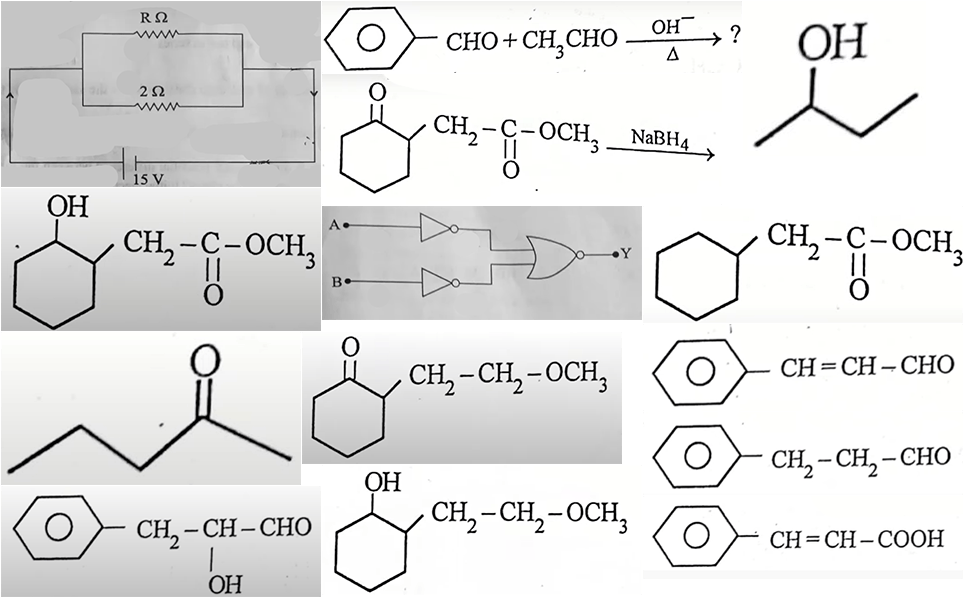
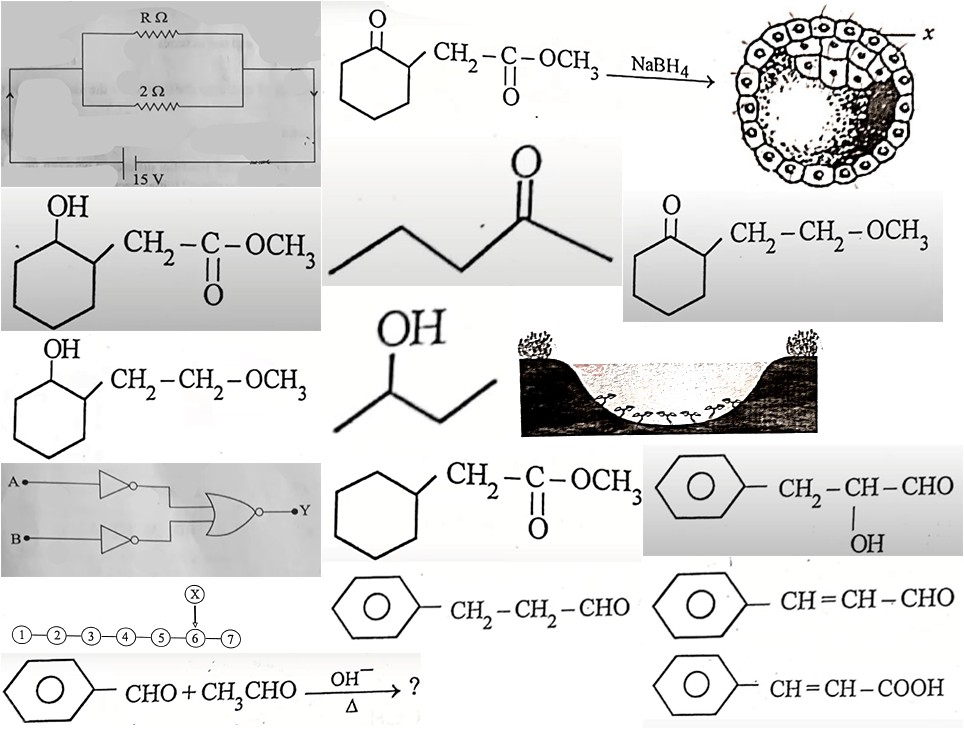
Fixed

diff --git a/img/engg/gujcet/prev/g2022.css b/img/engg/gujcet/prev/g2022.css
@@ -7,47 +7,56 @@ Responsive: <div class="yourspritesname"></div>
 */
 
 
+.gujcet_2022_bg_12 {max-width:320px; max-height:121px; }
+.gujcet_2022_bg_12::after {content: '\00a0';display: inline-block; width:320px; height:121px; background-position: 78.57142857142857% 53.125%;background-size: 301.25% 602.4793388429752%;background-image: url(g2022.png);padding: 0; }
+div.gujcet_2022_bg_12::after {max-width:320px; width:100%;height:0;padding: 0 0 37.8125% 0;}
+.gujcet_2022_bg_24 {max-width:225px; max-height:188px; }
+.gujcet_2022_bg_24::after {content: '\00a0';display: inline-block; width:225px; height:188px; background-position: 97.83491204330176% 0.18484288354898337%;background-size: 428.44444444444446% 387.7659574468085%;background-image: url(g2022.png);padding: 0; }
+div.gujcet_2022_bg_24::after {max-width:225px; width:100%;height:0;padding: 0 0 83.55555555555556% 0;}
+.gujcet_2022_bg_30 {max-width:252px; max-height:74px; }
+.gujcet_2022_bg_30::after {content: '\00a0';display: inline-block; width:252px; height:74px; background-position: 0.1404494382022472% 88.2442748091603%;background-size: 382.53968253968253% 985.1351351351351%;background-image: url(g2022.png);padding: 0; }
+div.gujcet_2022_bg_30::after {max-width:252px; width:100%;height:0;padding: 0 0 29.365079365079364% 0;}
 .gujcet_2022_ch_5 {max-width:400px; max-height:131px; }
-.gujcet_2022_ch_5::after {content: '\00a0';display: inline-block; width:400px; height:131px; background-position: 57.09219858156028% 15.845824411134904%;background-size: 241% 456.48854961832063%;background-image: url(g2022.png);padding: 0; }
+.gujcet_2022_ch_5::after {content: '\00a0';display: inline-block; width:400px; height:131px; background-position: 57.09219858156028% 0.16722408026755853%;background-size: 241% 556.4885496183206%;background-image: url(g2022.png);padding: 0; }
 div.gujcet_2022_ch_5::after {max-width:400px; width:100%;height:0;padding: 0 0 32.75% 0;}
 .gujcet_2022_ch_5_a {max-width:320px; max-height:117px; }
-.gujcet_2022_ch_5_a::after {content: '\00a0';display: inline-block; width:320px; height:117px; background-position: 99.84472049689441% 42.82744282744283%;background-size: 301.25% 511.1111111111111%;background-image: url(g2022.png);padding: 0; }
+.gujcet_2022_ch_5_a::after {content: '\00a0';display: inline-block; width:320px; height:117px; background-position: 50% 72.7124183006536%;background-size: 301.25% 623.0769230769231%;background-image: url(g2022.png);padding: 0; }
 div.gujcet_2022_ch_5_a::after {max-width:320px; width:100%;height:0;padding: 0 0 36.5625% 0;}
 .gujcet_2022_ch_5_b {max-width:320px; max-height:143px; }
-.gujcet_2022_ch_5_b::after {content: '\00a0';display: inline-block; width:320px; height:143px; background-position: 0.15527950310559005% 41.31868131868132%;background-size: 301.25% 418.1818181818182%;background-image: url(g2022.png);padding: 0; }
+.gujcet_2022_ch_5_b::after {content: '\00a0';display: inline-block; width:320px; height:143px; background-position: 0.15527950310559005% 32.081911262798634%;background-size: 301.25% 509.7902097902098%;background-image: url(g2022.png);padding: 0; }
 div.gujcet_2022_ch_5_b::after {max-width:320px; width:100%;height:0;padding: 0 0 44.6875% 0;}
 .gujcet_2022_ch_5_c {max-width:320px; max-height:130px; }
-.gujcet_2022_ch_5_c::after {content: '\00a0';display: inline-block; width:320px; height:130px; background-position: 50% 99.35897435897436%;background-size: 301.25% 460%;background-image: url(g2022.png);padding: 0; }
+.gujcet_2022_ch_5_c::after {content: '\00a0';display: inline-block; width:320px; height:130px; background-position: 0.15527950310559005% 55.425709515859765%;background-size: 301.25% 560.7692307692307%;background-image: url(g2022.png);padding: 0; }
 div.gujcet_2022_ch_5_c::after {max-width:320px; width:100%;height:0;padding: 0 0 40.625% 0;}
 .gujcet_2022_ch_5_d {max-width:320px; max-height:132px; }
-.gujcet_2022_ch_5_d::after {content: '\00a0';display: inline-block; width:320px; height:132px; background-position: 46.8944099378882% 71.24463519313305%;background-size: 301.25% 453.030303030303%;background-image: url(g2022.png);padding: 0; }
+.gujcet_2022_ch_5_d::after {content: '\00a0';display: inline-block; width:320px; height:132px; background-position: 96.73913043478261% 31.825795644891123%;background-size: 301.25% 552.2727272727273%;background-image: url(g2022.png);padding: 0; }
 div.gujcet_2022_ch_5_d::after {max-width:320px; width:100%;height:0;padding: 0 0 41.25% 0;}
 .gujcet_2022_ch_7_a {max-width:183px; max-height:155px; }
-.gujcet_2022_ch_7_a::after {content: '\00a0';display: inline-block; width:183px; height:155px; background-position: 95.13444302176697% 0.22573363431151242%;background-size: 526.775956284153% 385.80645161290323%;background-image: url(g2022.png);padding: 0; }
+.gujcet_2022_ch_7_a::after {content: '\00a0';display: inline-block; width:183px; height:155px; background-position: 41.2291933418694% 50%;background-size: 526.775956284153% 470.3225806451613%;background-image: url(g2022.png);padding: 0; }
 div.gujcet_2022_ch_7_a::after {max-width:183px; width:100%;height:0;padding: 0 0 84.69945355191257% 0;}
 .gujcet_2022_ch_7_b {max-width:300px; max-height:153px; }
-.gujcet_2022_ch_7_b::after {content: '\00a0';display: inline-block; width:300px; height:153px; background-position: 0.15060240963855423% 74.6067415730337%;background-size: 321.3333333333333% 390.8496732026144%;background-image: url(g2022.png);padding: 0; }
+.gujcet_2022_ch_7_b::after {content: '\00a0';display: inline-block; width:300px; height:153px; background-position: 48.493975903614455% 23.09027777777778%;background-size: 321.3333333333333% 476.47058823529414%;background-image: url(g2022.png);padding: 0; }
 div.gujcet_2022_ch_7_b::after {max-width:300px; width:100%;height:0;padding: 0 0 51% 0;}
 .gujcet_2022_ch_8 {max-width:420px; max-height:72px; }
-.gujcet_2022_ch_8::after {content: '\00a0';display: inline-block; width:420px; height:72px; background-position: 59.19117647058823% 0.19011406844106463%;background-size: 229.52380952380952% 830.5555555555555%;background-image: url(g2022.png);padding: 0; }
+.gujcet_2022_ch_8::after {content: '\00a0';display: inline-block; width:420px; height:72px; background-position: 0.18382352941176472% 99.39117199391173%;background-size: 229.52380952380952% 1012.5%;background-image: url(g2022.png);padding: 0; }
 div.gujcet_2022_ch_8::after {max-width:420px; width:100%;height:0;padding: 0 0 17.142857142857142% 0;}
 .gujcet_2022_ch_8_a {max-width:320px; max-height:87px; }
-.gujcet_2022_ch_8_a::after {content: '\00a0';display: inline-block; width:320px; height:87px; background-position: 99.84472049689441% 63.40508806262231%;background-size: 301.25% 687.3563218390805%;background-image: url(g2022.png);padding: 0; }
+.gujcet_2022_ch_8_a::after {content: '\00a0';display: inline-block; width:320px; height:87px; background-position: 99.84472049689441% 86.7601246105919%;background-size: 301.25% 837.9310344827586%;background-image: url(g2022.png);padding: 0; }
 div.gujcet_2022_ch_8_a::after {max-width:320px; width:100%;height:0;padding: 0 0 27.1875% 0;}
 .gujcet_2022_ch_8_b {max-width:320px; max-height:83px; }
-.gujcet_2022_ch_8_b::after {content: '\00a0';display: inline-block; width:320px; height:83px; background-position: 99.84472049689441% 80%;background-size: 301.25% 720.4819277108434%;background-image: url(g2022.png);padding: 0; }
+.gujcet_2022_ch_8_b::after {content: '\00a0';display: inline-block; width:320px; height:83px; background-position: 50% 87.15170278637771%;background-size: 301.25% 878.3132530120482%;background-image: url(g2022.png);padding: 0; }
 div.gujcet_2022_ch_8_b::after {max-width:320px; width:100%;height:0;padding: 0 0 25.9375% 0;}
 .gujcet_2022_ch_8_c {max-width:320px; max-height:111px; }
-.gujcet_2022_ch_8_c::after {content: '\00a0';display: inline-block; width:320px; height:111px; background-position: 0.15527950310559005% 99.79466119096509%;background-size: 301.25% 538.7387387387388%;background-image: url(g2022.png);padding: 0; }
+.gujcet_2022_ch_8_c::after {content: '\00a0';display: inline-block; width:320px; height:111px; background-position: 99.84472049689441% 72.00647249190939%;background-size: 301.25% 656.7567567567568%;background-image: url(g2022.png);padding: 0; }
 div.gujcet_2022_ch_8_c::after {max-width:320px; width:100%;height:0;padding: 0 0 34.6875% 0;}
 .gujcet_2022_ch_8_d {max-width:320px; max-height:83px; }
-.gujcet_2022_ch_8_d::after {content: '\00a0';display: inline-block; width:320px; height:83px; background-position: 99.84472049689441% 96.31067961165049%;background-size: 301.25% 720.4819277108434%;background-image: url(g2022.png);padding: 0; }
+.gujcet_2022_ch_8_d::after {content: '\00a0';display: inline-block; width:320px; height:83px; background-position: 99.84472049689441% 99.84520123839009%;background-size: 301.25% 878.3132530120482%;background-image: url(g2022.png);padding: 0; }
 div.gujcet_2022_ch_8_d::after {max-width:320px; width:100%;height:0;padding: 0 0 25.9375% 0;}
 .gujcet_2022_ph_18 {max-width:320px; max-height:186px; }
-.gujcet_2022_ph_18::after {content: '\00a0';display: inline-block; width:320px; height:186px; background-position: 0.15527950310559005% 0.24271844660194175%;background-size: 301.25% 321.505376344086%;background-image: url(g2022.png);padding: 0; }
+.gujcet_2022_ph_18::after {content: '\00a0';display: inline-block; width:320px; height:186px; background-position: 0.15527950310559005% 0.1841620626151013%;background-size: 301.25% 391.93548387096774%;background-image: url(g2022.png);padding: 0; }
 div.gujcet_2022_ph_18::after {max-width:320px; width:100%;height:0;padding: 0 0 58.125% 0;}
 .gujcet_2022_ph_8 {max-width:320px; max-height:114px; }
-.gujcet_2022_ph_8::after {content: '\00a0';display: inline-block; width:320px; height:114px; background-position: 50% 42.56198347107438%;background-size: 301.25% 524.561403508772%;background-image: url(g2022.png);padding: 0; }
+.gujcet_2022_ph_8::after {content: '\00a0';display: inline-block; width:320px; height:114px; background-position: 0.15527950310559005% 75.28455284552845%;background-size: 301.25% 639.4736842105264%;background-image: url(g2022.png);padding: 0; }
 div.gujcet_2022_ph_8::after {max-width:320px; width:100%;height:0;padding: 0 0 35.625% 0;}
 
-/* $TexturePacker:SmartUpdate:a113ee217ea4bf07383a8d267cd7ce56:084e69aa77609b192584de7b1a99f86d:15b9315fbe028e4f43ffed358fc13449$ */
+/* $TexturePacker:SmartUpdate:e615e5b27413222d5fab6089f8596878:40e5355bed898847e678204a317170e6:15b9315fbe028e4f43ffed358fc13449$ */
